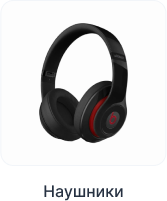
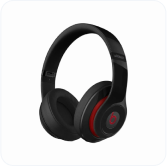
Kanykei

Changed region(s): [[0.2096, 0.0904, 0.7784, 0.8735], [0.2395, 0.9036, 0.7485, 1.0]]

diff --git a/src/pages/home/section.tsx b/src/pages/home/section.tsx
@@ -1,17 +1,43 @@
-import React from 'react'
+import React from "react";
+import Apple from "../../assets/Apple.png"
+import Macbook from "../../assets/Macbook.png"
+import Ipad from "../../assets/Ipad.png"
+import watch from "../../assets/Watch.png"
+import prefix from "../../assets/Prefix.png"
+import headphones from "../../assets/headphones.png"
+import columns from "../../assets/columns.png"
+import accessories from "../../assets/accessories.png"
 
 function Section() {
-  return (
-    <section className='section'>
-      <div className='container'>
-        <div className='section__content'>
-          <a href="#" className=''>
-            Лучший выбор
-          </a>
-        </div>
-      </div>
-    </section>
-  )
+    return (
+        <section className="section">
+            <div className="container">
+                <div className="section__content">
+                    <a href="#" className="section__logo-text">
+                        Лучший выбор
+                    </a>
+                    <div className="Cards">
+                        <img src={Apple} alt="" className="card_1" />
+                        <h3 className="card_text">Смартфоны</h3>
+                        <img src={Macbook} alt="" className="card_2" />
+                        <h3 className="card_text">Ноутбуки</h3>
+                        <img src={Ipad} alt="" className="card_3" />
+                        <h3 className="card_text">Планшеты</h3>
+                        <img src={watch} alt="" className="card-4" />
+                        <h3 className="card_text">Умные часы</h3>
+                        <img src={prefix} alt="" className="card_5" />
+                        <h3 className="card_text">Игровые приставки</h3>
+                        <img src={headphones} alt="" className="card_6" />
+                        <h3 className="card_text">Наушники</h3>
+                        <img src={columns} alt="" className="card_7" />
+                        <h3 className="card_text">Портативные колонки</h3>
+                        <img src={accessories} alt="" className="card_8" />
+                        <h3 className="card_text">Аксесуары</h3>
+                    </div>
+                </div>
+            </div>
+        </section>
+    );
 }
 
-export default Section
+export default Section;

diff --git a/src/pages/home/home.tsx b/src/pages/home/home.tsx
@@ -1,12 +1,14 @@
 import React from "react";
 import Header from "../../components/header/header";
+import Section from "../../pages/home/section";
+
+
 
 function Home() {
     return (
-        
         <>
             <Header />
-            <>Section</>
+            <Section/>
         </>
     );
 }
